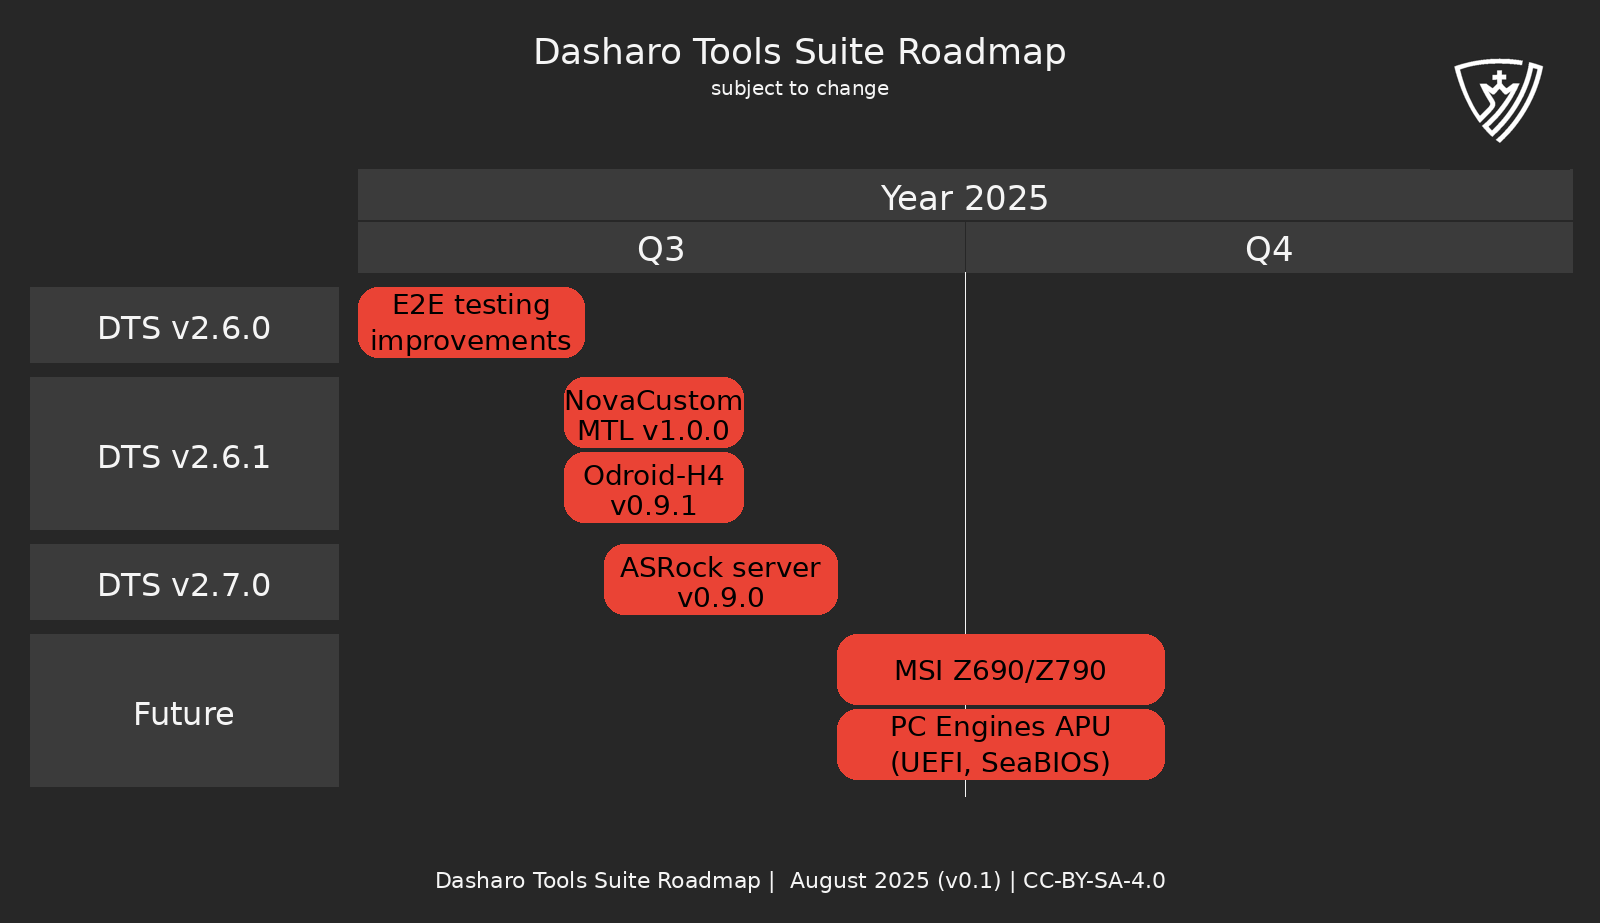
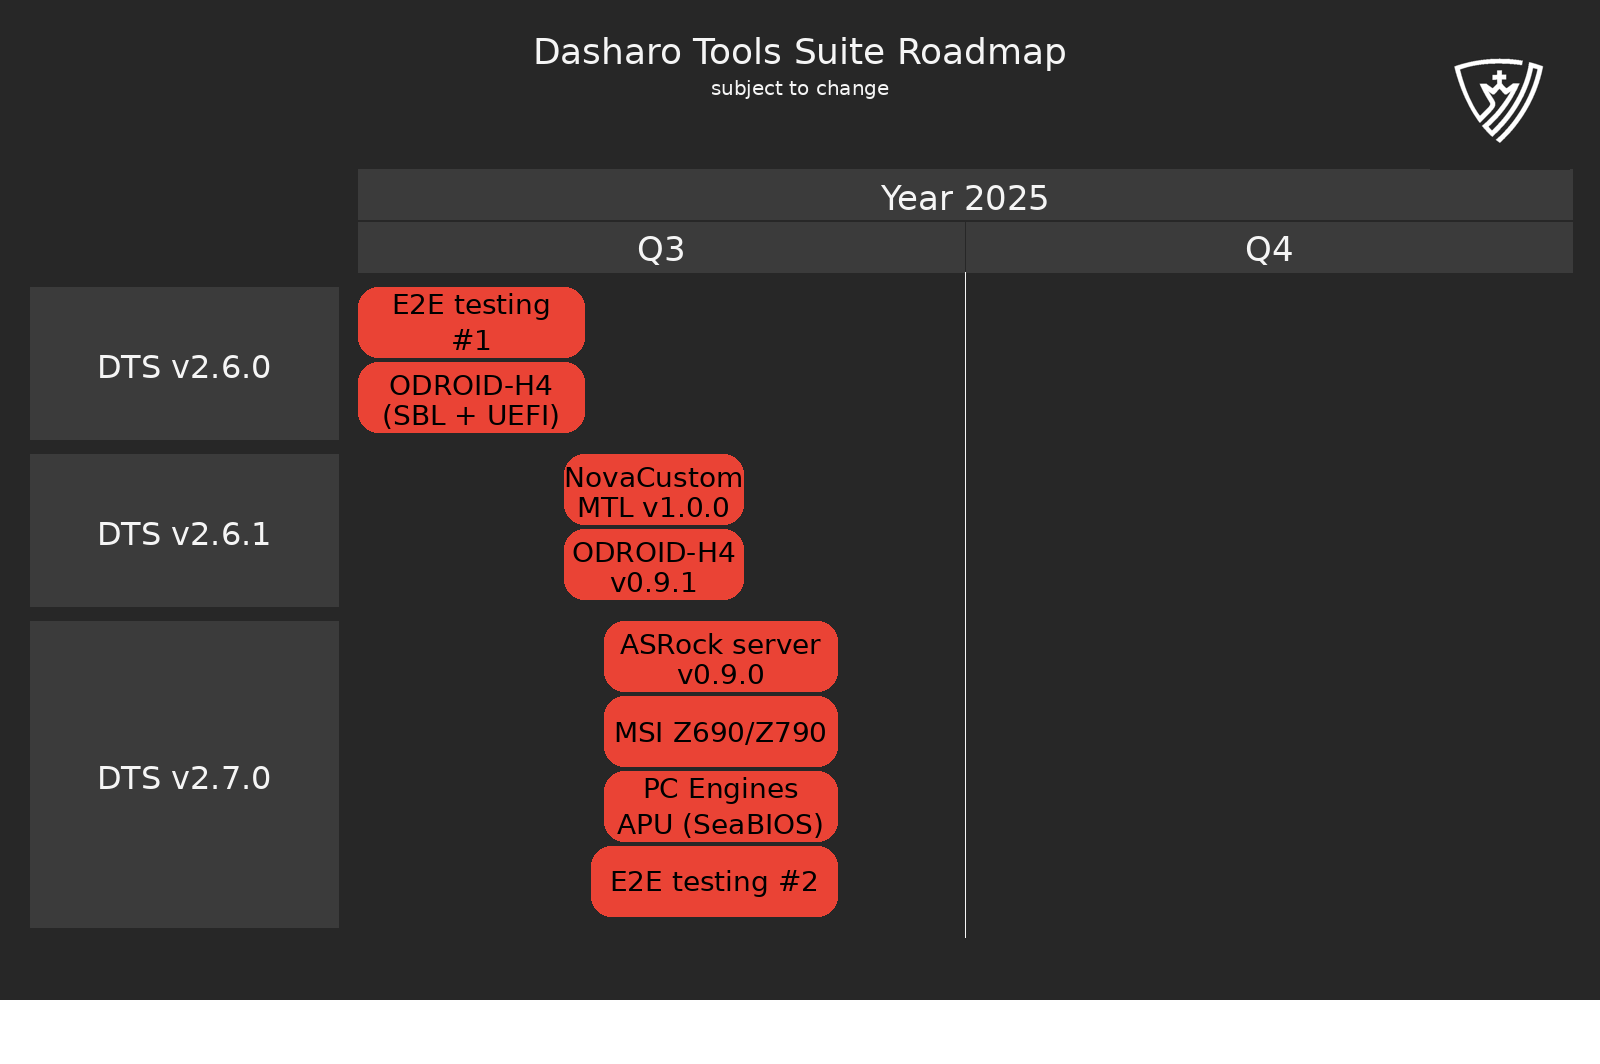
zdm_2/04_dts_status.md: update roadmap

diff --git a/pages/zdm_2/04_dts_status.md b/pages/zdm_2/04_dts_status.md
@@ -305,6 +305,19 @@ layout: two-cols-header
 <center><img src="/../img/zdm_2/dts_roadmap_v0.1.png" width="650"></center>
 
 ---
+layout: two-cols-header
+---
+
+## Future plans
+
+* PC Engines APU (UEFI)
+  - Support next release
+* Build reproducibility
+  - https://github.com/Dasharo/dasharo-issues/issues/957
+* UI library separation
+  - Also other UI improvements and considerations
+
+---
 layout: cover
 background: /intro.png
 class: text-center
